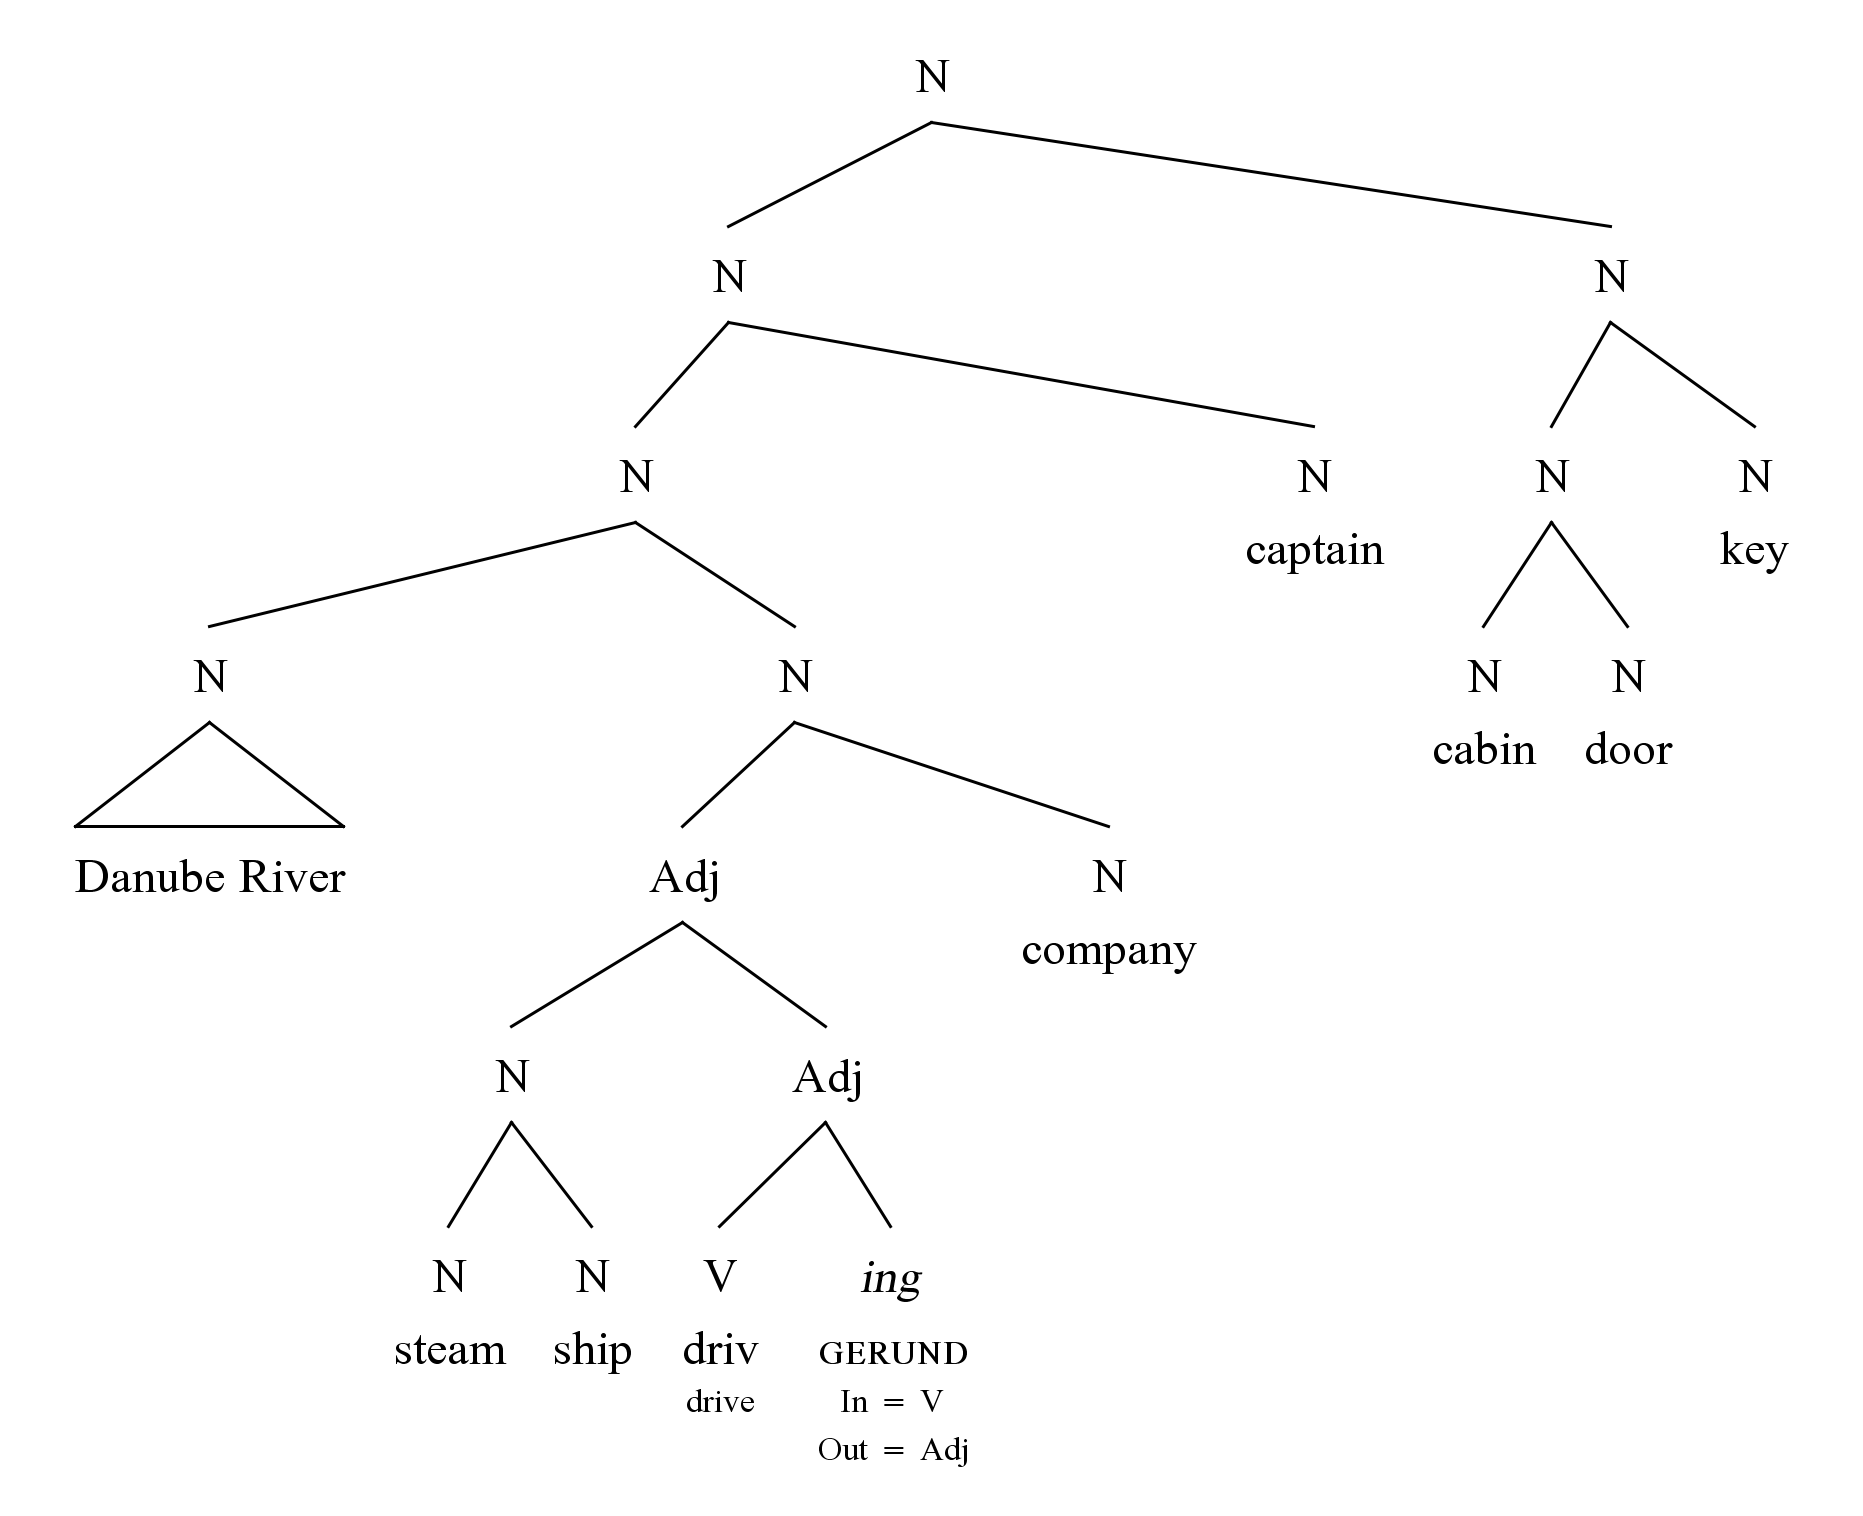
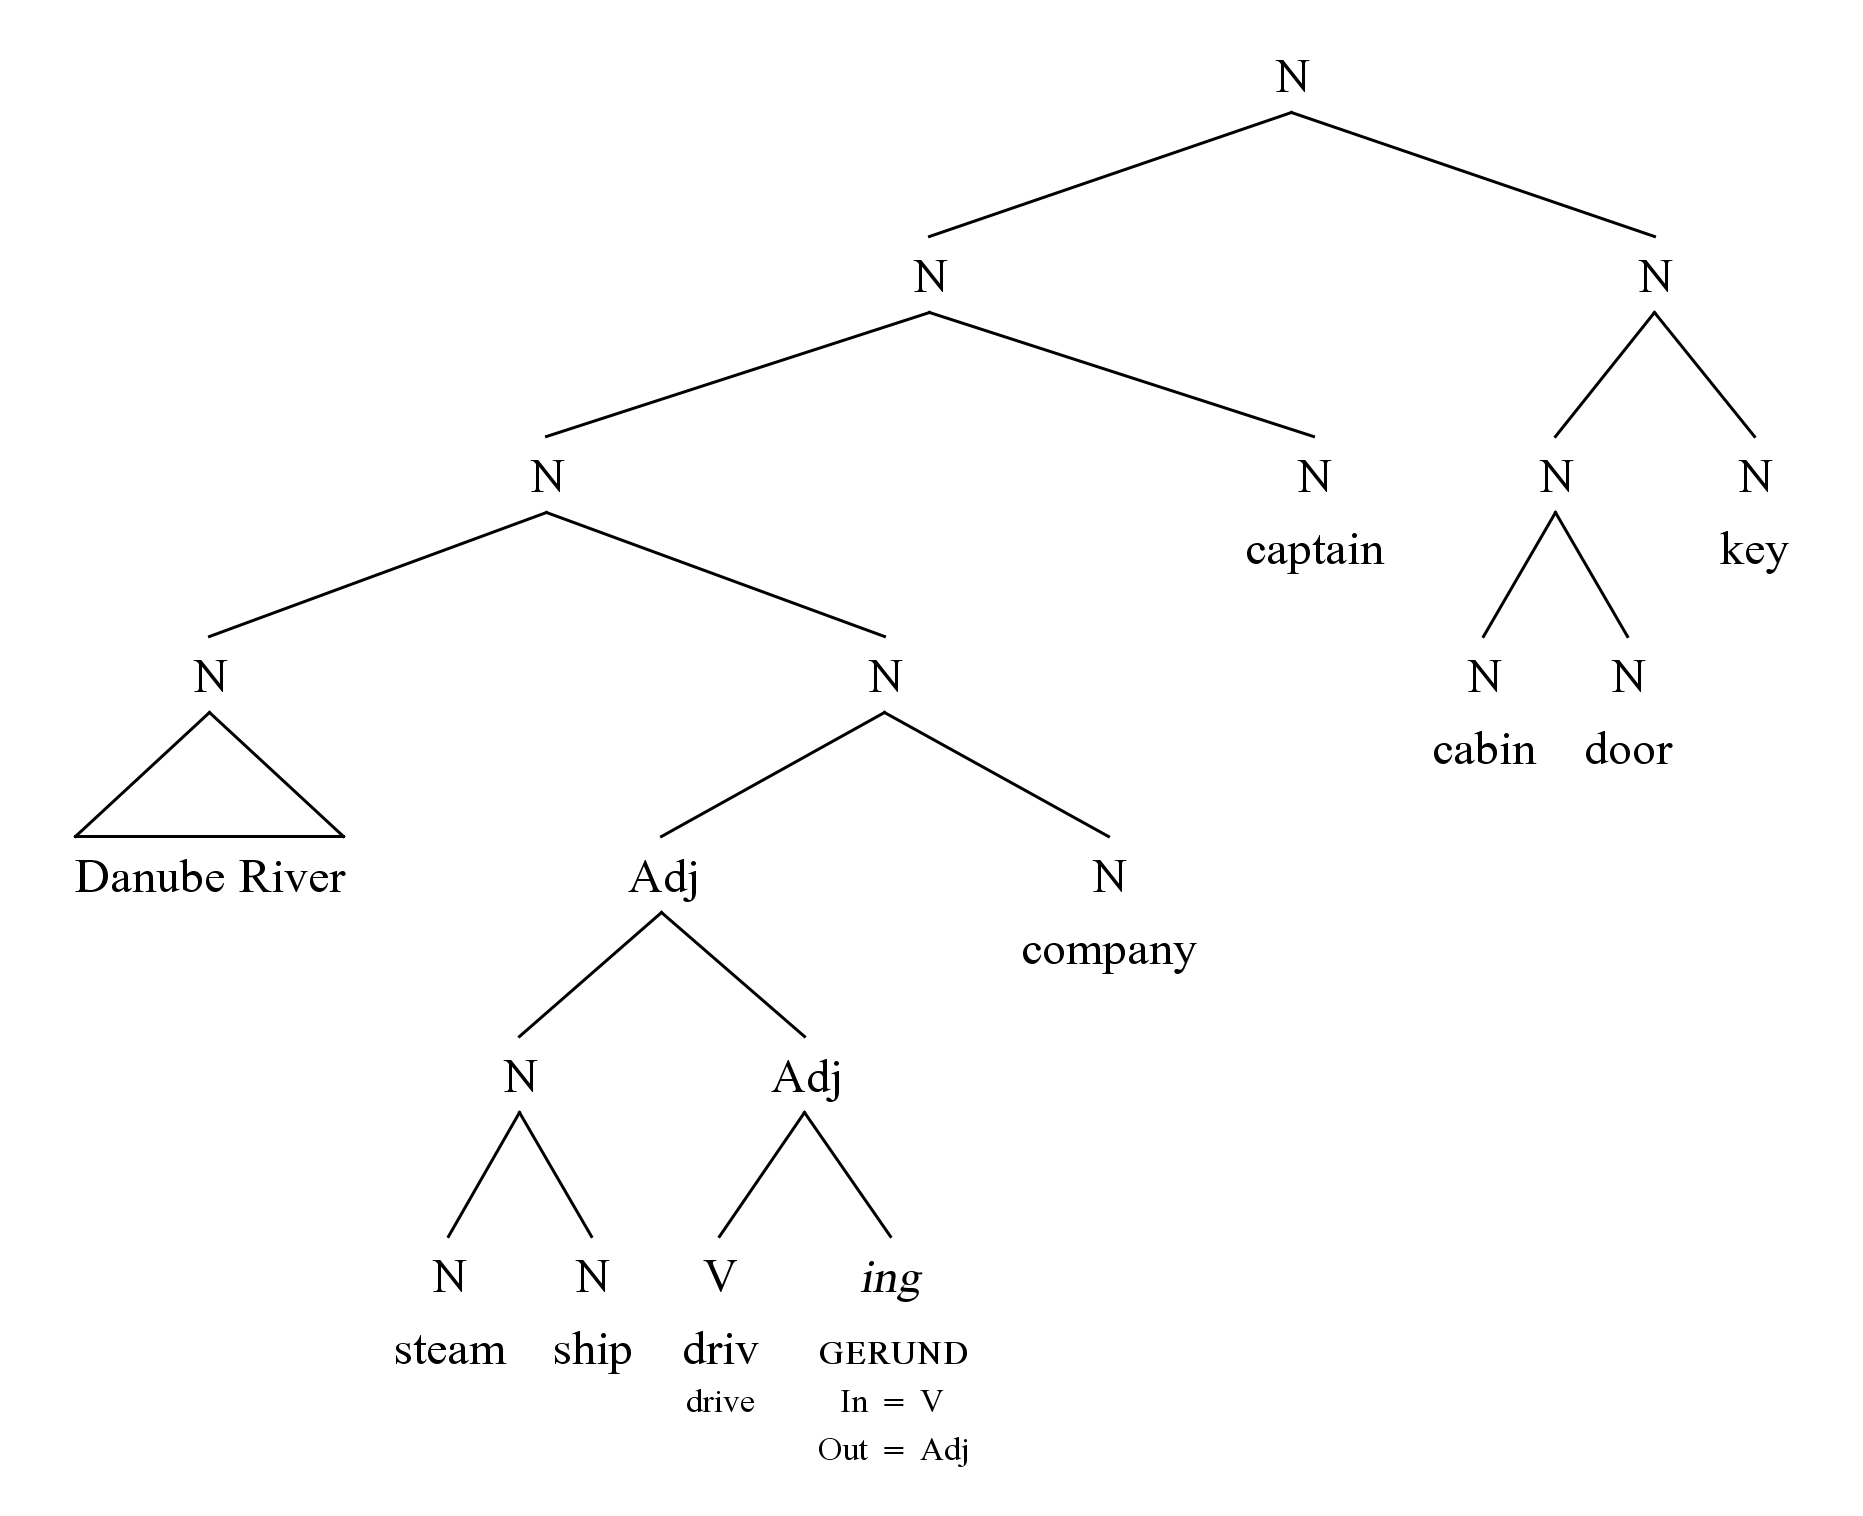
Symmetrical lines

diff --git a/src/main/syntax/DrawTree.java b/src/main/syntax/DrawTree.java
@@ -3,6 +3,7 @@ package syntax;
 import java.awt.*;
 import java.awt.font.*;
 import java.text.*;
+import java.util.ArrayList;
 import java.awt.geom.*;
 
 public class DrawTree {
@@ -40,20 +41,17 @@ public class DrawTree {
         paintNode(border, border + fontSize / 2, g2, NS);
 	}
 	
-	public void paintNode(int _x, int _y, Graphics2D g2, Node n) {
-        if (in_color)
-            g2.setPaint(Color.BLUE);
-
+	public int paintNode(int _x, int _y, Graphics2D g2, Node n) {        
         int center_x = _x + n.getWidth(this) / 2;
-        drawCenteredString(center_x, _y, g2, n.value);
+
+        ArrayList<Integer> x_vals = new ArrayList<Integer>();
+
         if (!n.subNodes.isEmpty()) {
             int x = _x;
             for (Node sub : n.subNodes) {
                 g2.setStroke(stroke);
-                if (in_color)
-                    g2.setPaint(Color.BLACK);
-                g2.draw(new Line2D.Float(center_x, _y + font.getSize2D(), x + sub.getWidth(this) / 2, _y + spacingY - font.getSize2D()));
-                paintNode(x, _y + spacingY, g2, sub);
+                //g2.draw(new Line2D.Float(center_x, _y + (int)((float)font.getSize2D() / 1.25), x + sub.getWidth(this) / 2, _y + spacingY - (int)((float)font.getSize2D() / 1.25)));
+                x_vals.add(paintNode(x, _y + spacingY, g2, sub));
                 x+=sub.getWidth(this);
             }
         } else if (!n.metadata.isEmpty()) {
@@ -61,10 +59,10 @@ public class DrawTree {
                 g2.setStroke(stroke);
                 if (in_color)
                     g2.setPaint(Color.BLACK);
-                g2.draw(new Line2D.Float(center_x, _y + font.getSize2D(), center_x - n.getWidth(this) / 2 + spacingX / 2, _y + spacingY - font.getSize2D()));               
-                g2.draw(new Line2D.Float(center_x, _y + font.getSize2D(), center_x + n.getWidth(this) / 2 - spacingX / 2, _y + spacingY - font.getSize2D()));
+                g2.draw(new Line2D.Float(center_x, _y + (int)((float)font.getSize2D() / 1.25), center_x - n.getWidth(this) / 2 + spacingX / 2, _y + spacingY - (int)((float)font.getSize2D() / 1.25)));               
+                g2.draw(new Line2D.Float(center_x, _y + (int)((float)font.getSize2D() / 1.25), center_x + n.getWidth(this) / 2 - spacingX / 2, _y + spacingY - (int)((float)font.getSize2D() / 1.25)));
                 g2.draw(
-                    new Line2D.Float(center_x - n.getWidth(this) / 2 + spacingX / 2, _y + spacingY - font.getSize2D(), center_x + n.getWidth(this) / 2 - spacingX / 2, _y + spacingY - font.getSize2D()));
+                    new Line2D.Float(center_x - n.getWidth(this) / 2 + spacingX / 2, _y + spacingY - (int)((float)font.getSize2D() / 1.25), center_x + n.getWidth(this) / 2 - spacingX / 2, _y + spacingY - (int)((float)font.getSize2D() / 1.25)));
                 if (in_color)
                         g2.setPaint(Color.RED);
                 drawCenteredString(center_x, _y + spacingY, g2, n.metadata.substring(0, n.metadata.length() - 1));
@@ -72,7 +70,7 @@ public class DrawTree {
                 g2.setStroke(stroke);
                 if (in_color)
                     g2.setPaint(Color.BLACK);
-                g2.draw(new Line2D.Float(center_x, _y + font.getSize2D(), center_x, _y + spacingY - font.getSize2D()));
+                g2.draw(new Line2D.Float(center_x, _y + (int)((float)font.getSize2D() / 1.25), center_x, _y + spacingY - (int)((float)font.getSize2D() / 1.25)));
                 if (in_color)
                         g2.setPaint(Color.RED);
                 drawCenteredString(center_x, _y + spacingY, g2, n.metadata.substring(0, n.metadata.length() - 1));                
@@ -82,6 +80,23 @@ public class DrawTree {
                 drawCenteredString(center_x, (int)(_y + font.getSize2D() * 1.5), g2, n.metadata);
             }
         }
+
+        int avg_x = center_x;
+        
+        if (!x_vals.isEmpty()) {
+            if (in_color)
+                g2.setPaint(Color.BLACK);
+            avg_x = (x_vals.get(0) + x_vals.get(x_vals.size() - 1)) / 2;
+            for (int x : x_vals) {
+                g2.draw(new Line2D.Float(avg_x, _y + (int)((float)font.getSize2D() / 1.25), x, _y + spacingY - (int)((float)font.getSize2D() / 1.25)));
+            }
+        }
+
+        if (in_color)
+            g2.setPaint(Color.BLUE);
+        drawCenteredString(avg_x, _y, g2, n.value);
+
+        return avg_x;
 	}
 	
 	public void drawCenteredString(int _x, int _y, Graphics2D g2, String text) {
